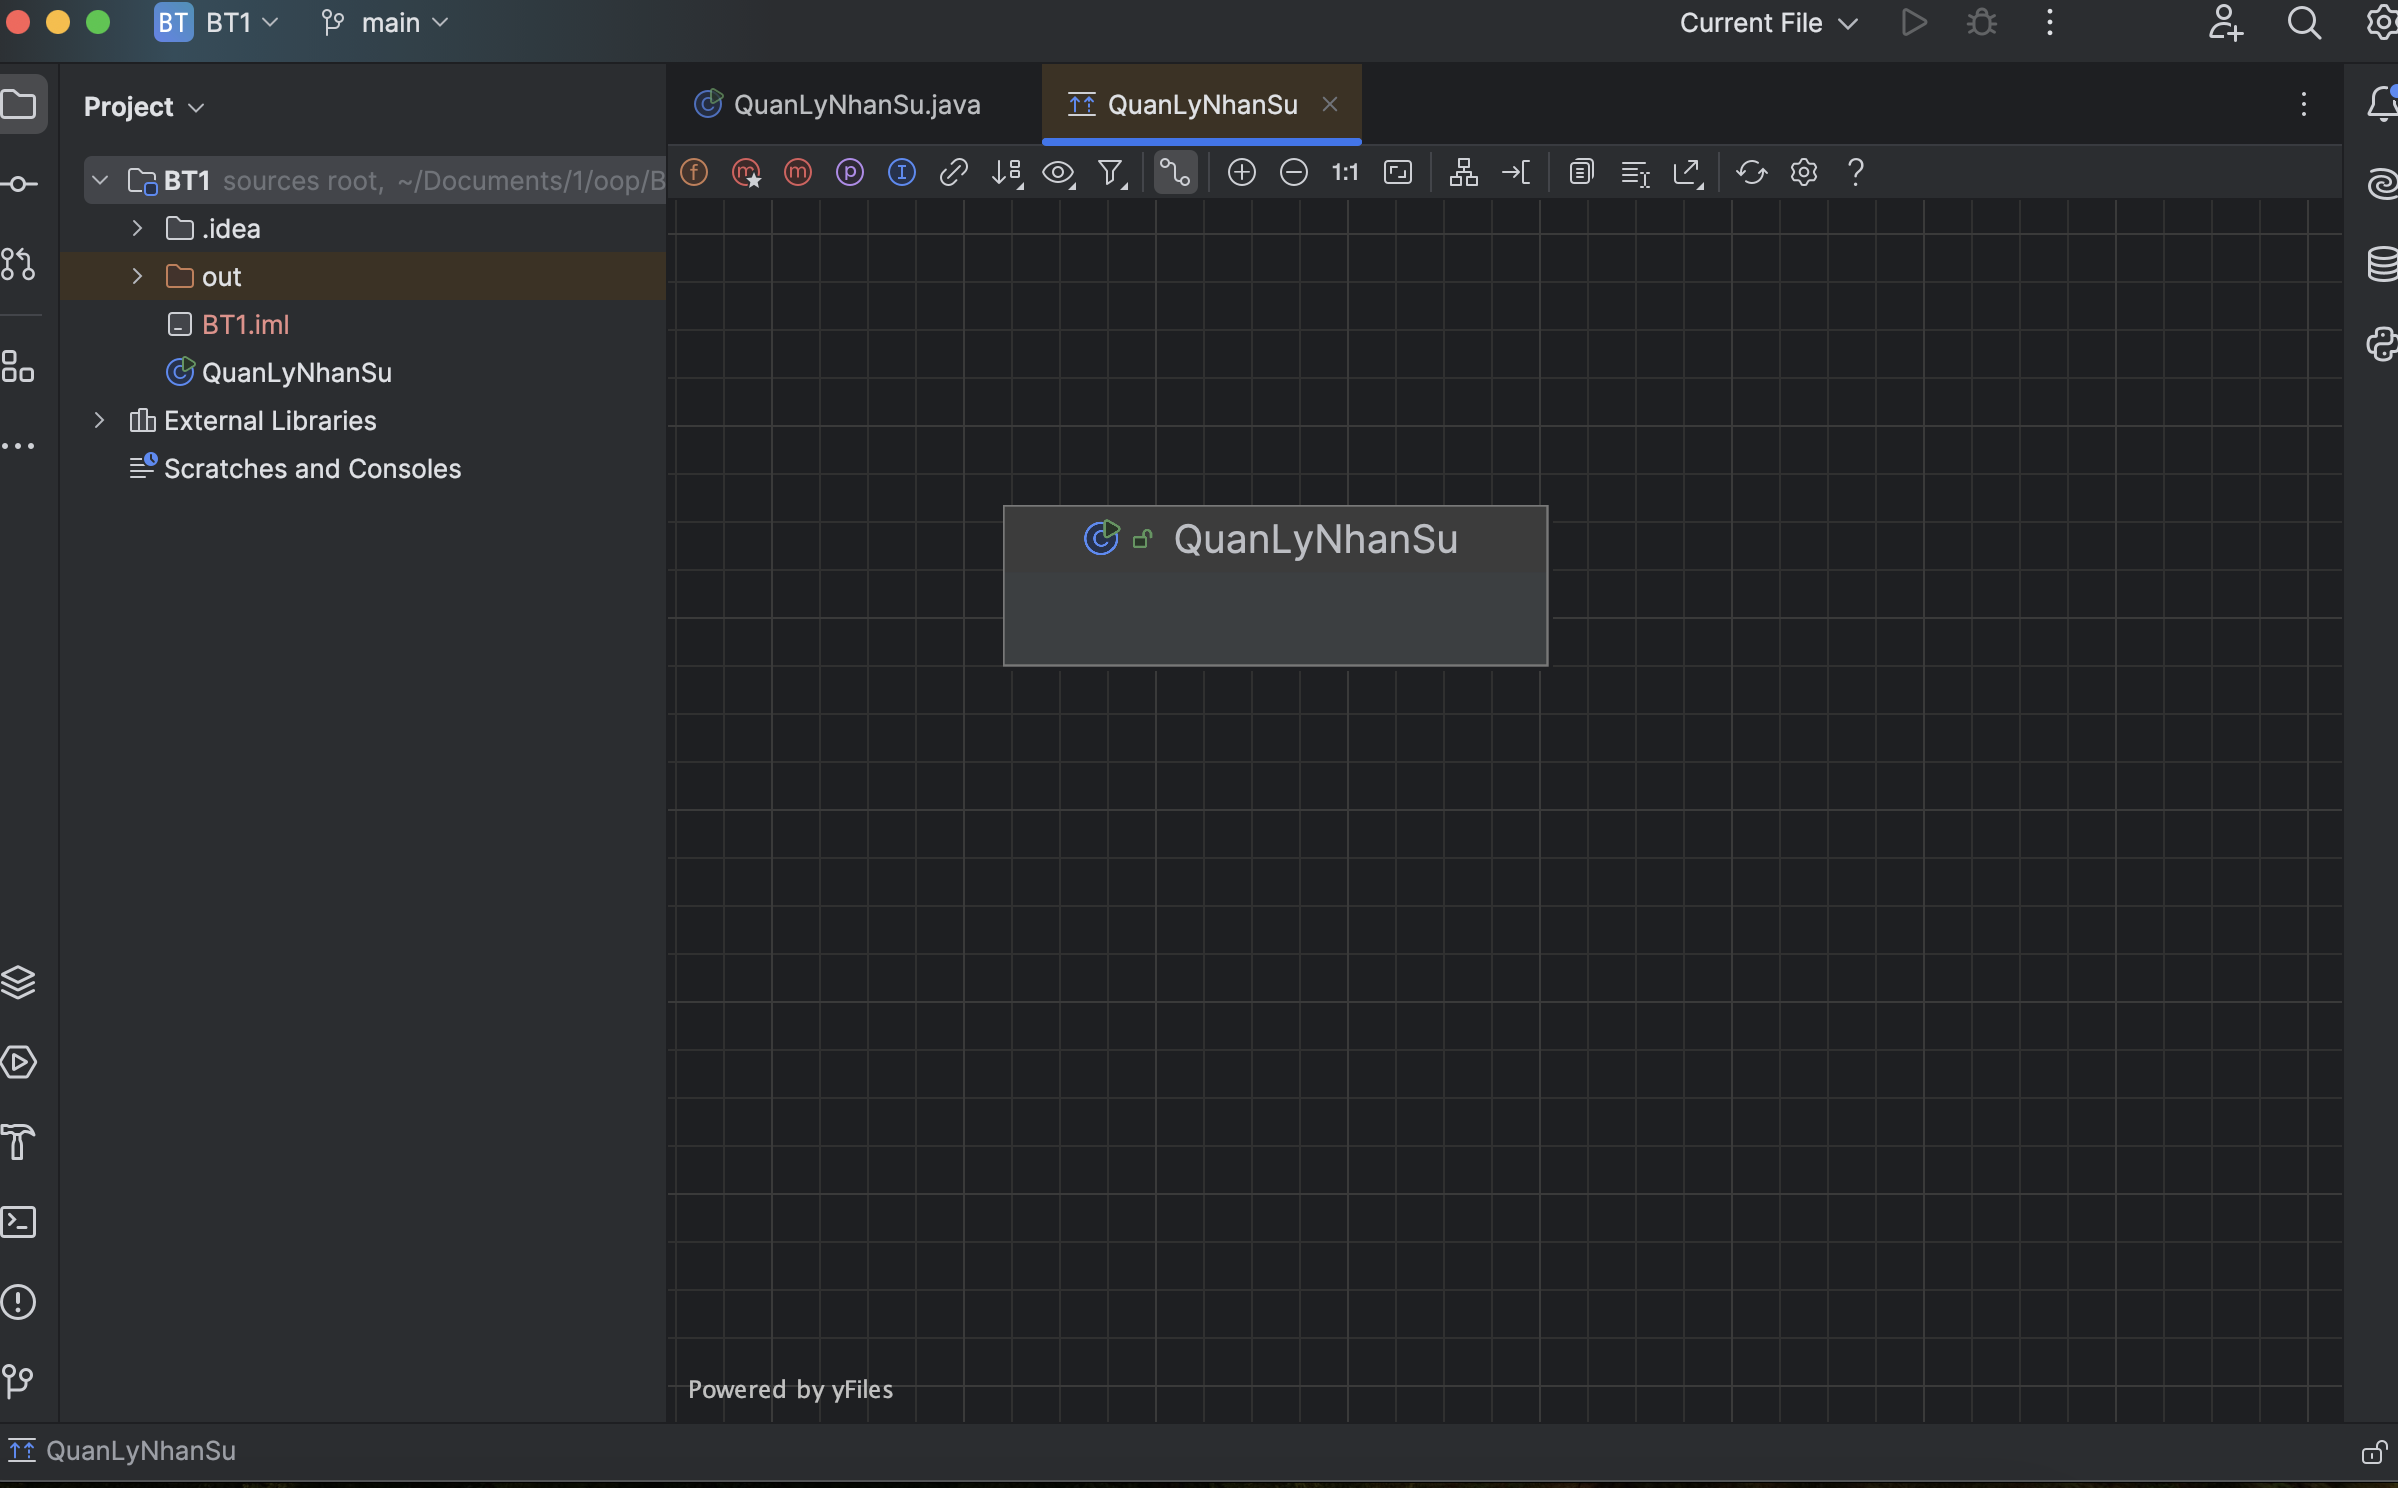
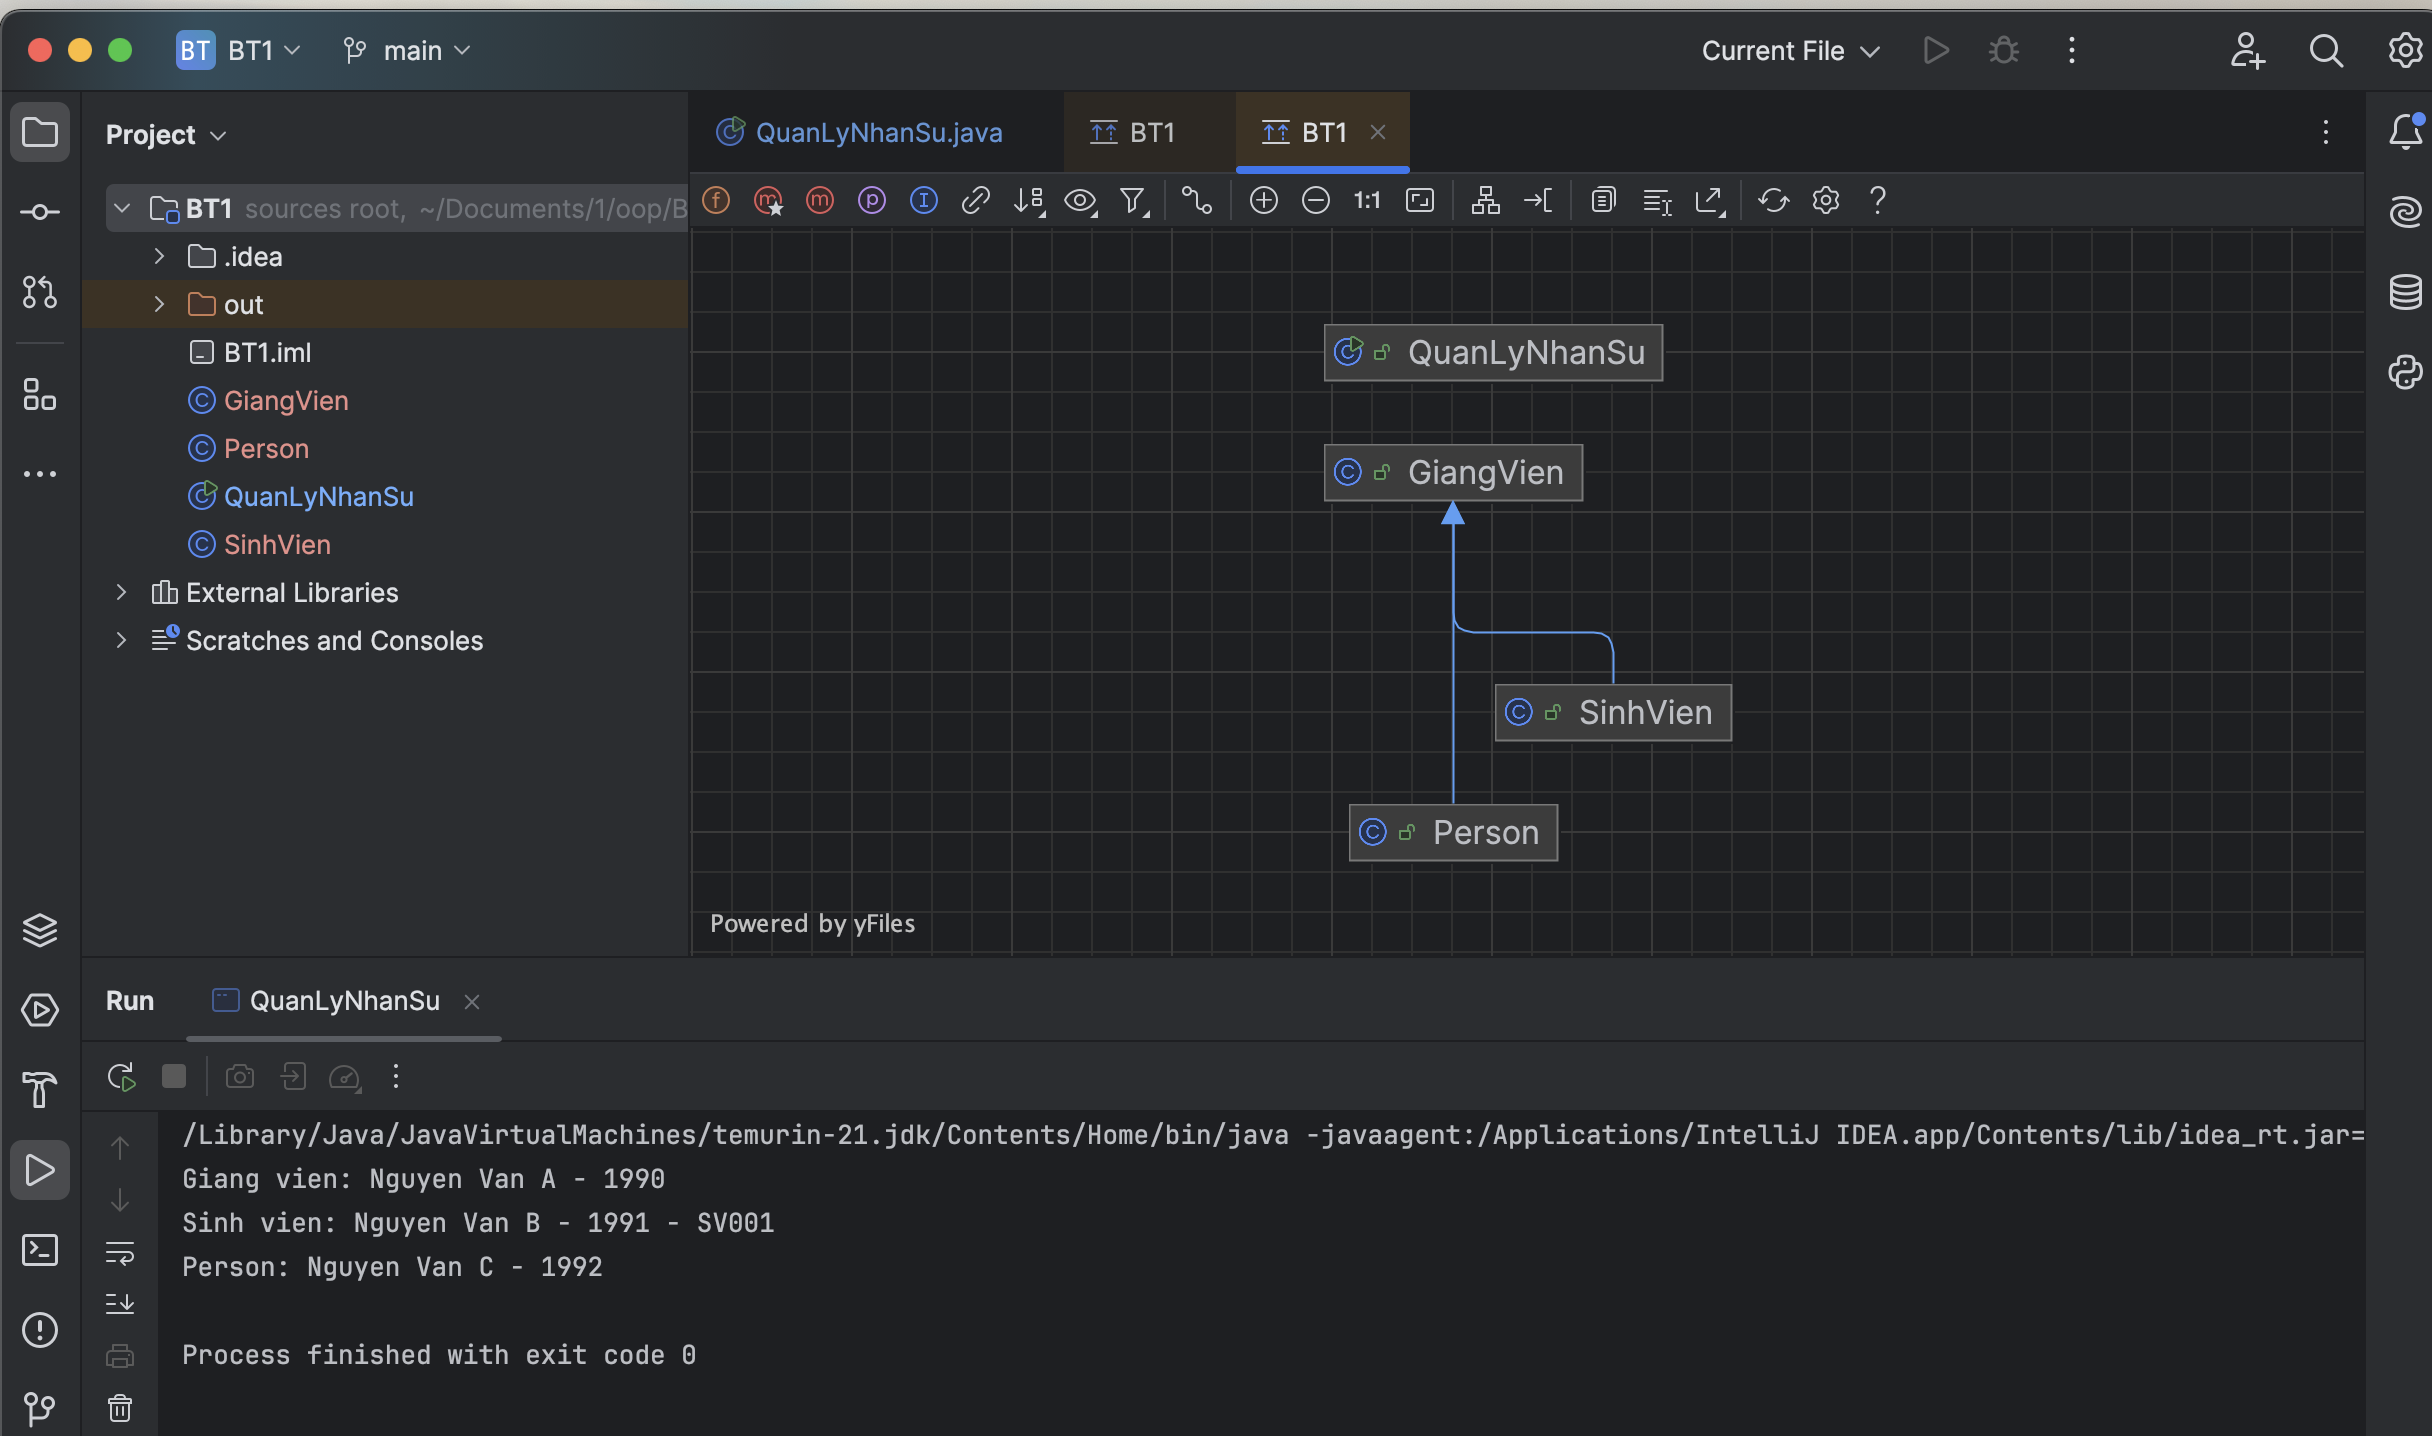
3333

diff --git a/QuanLyNhanSu.java b/QuanLyNhanSu.java
@@ -1,18 +1,4 @@
 public class QuanLyNhanSu {
-    public static class GiangVien {
-        public String hoTen;
-        public int namSinh;
-    }
-
-    public static class SinhVien extends GiangVien {
-        public String maSinhVien;
-    }
-
-    public static class Person {
-        public String hoTen;
-        public int namSinh;
-    }
-
     public static void main(String[] args) {
         GiangVien gv = new GiangVien();
         gv.hoTen = "Nguyen Van A";

diff --git a/Person.java b/Person.java
@@ -1,0 +1,5 @@
+public class Person extends GiangVien {
+    public String hoTen;
+    public int namSinh;
+    
+}

diff --git a/GiangVien.java b/GiangVien.java
@@ -1,0 +1,4 @@
+public class GiangVien {
+    public String hoTen;
+    public int namSinh;
+}

diff --git a/SinhVien.java b/SinhVien.java
@@ -1,0 +1,3 @@
+public class SinhVien extends GiangVien {
+    public String maSinhVien;
+}
